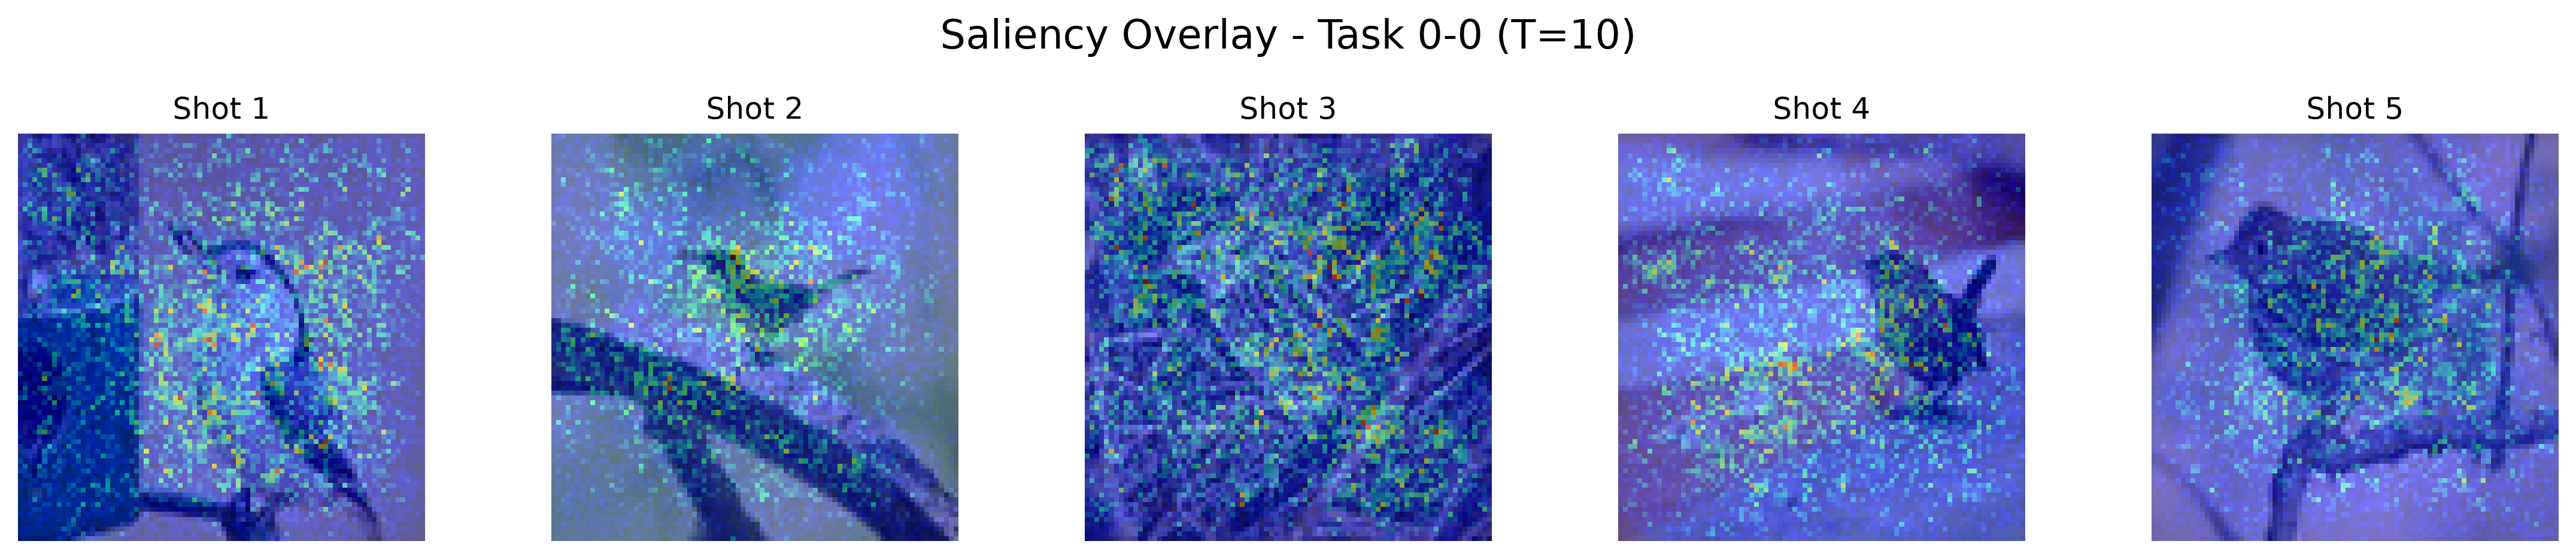
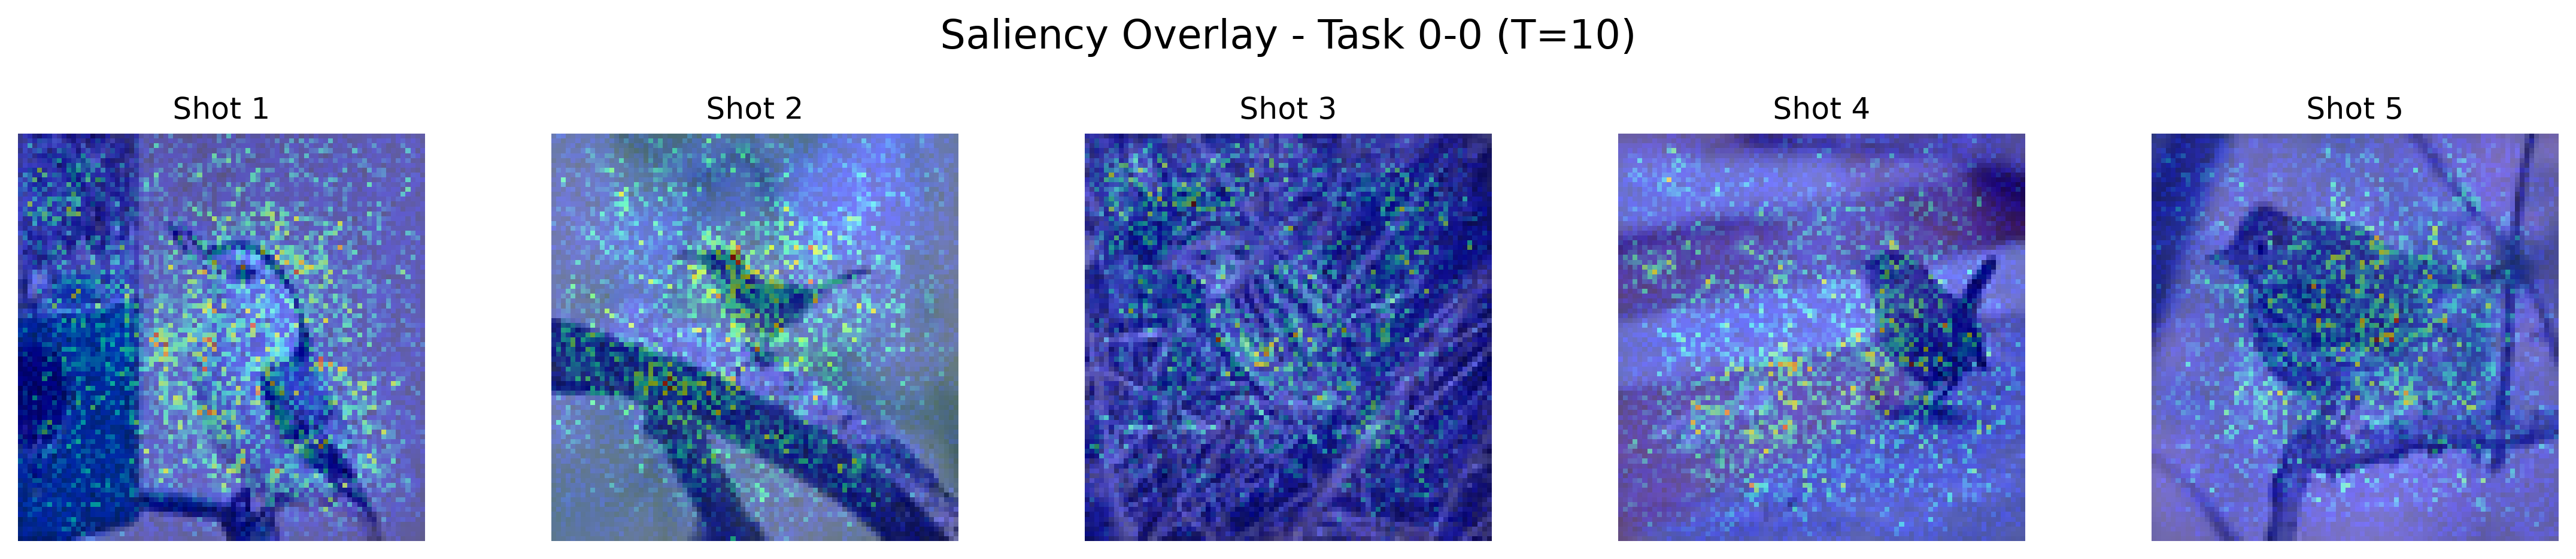
compute EQ saliency map

diff --git a/src/interpreters/base.py b/src/interpreters/base.py
@@ -4,23 +4,13 @@ algos/interpreter.py
 Post-hoc XAI cho MAML: Feature Saliency Map của support set S
 w.r.t. độ lợi thích nghi  ΔM = L_Q(θ₀) − L_Q(φᵢ*(S)).
 
-Lý thuyết đầy đủ: partial_LQ_partial_S.md §3-4.
-
-Ba kênh attribution (dùng chung một adjoint chain λ^(K)...λ^(1)):
 ──────────────────────────────────────────────────────────────────
-  ∂ΔM/∂wⱼ = (α/k) Σₘ ⟨gⱼ^(m-1), λ^(m)⟩                    ∈ ℝ
   ∂ΔM/∂xⱼ = (α/k) Σₘ [∇²_{φ,xⱼ} ℓⱼ(φ^(m-1))]ᵀ λ^(m)      ∈ ℝᴰ
-  LOO_j    = ΔM(S) − ΔM(S∖{j})                              ∈ ℝ  (discrete)
 
 Adjoint:
   λ^(K) = ∇_φ L_Q(φ^(K))
   λ^(m-1) = λ^(m) − α·H^(m-1)·λ^(m)     [H symmetric → no transpose needed]
   H^(m-1)·v via Pearlmutter HVP: O(P), không build ma trận P×P.
-
-Ghi chú BatchNorm (xác nhận bằng số):
-  ℓⱼ luôn được tính qua forward CHUNG toàn batch sup_x → sup_y,
-  rồi lấy thành phần thứ j. Forward riêng lẻ từng mẫu cho kết quả sai
-  nếu model dùng BatchNorm (track_running_stats=False là chuẩn cho MAML).
 """
 
 import torch
@@ -28,30 +18,26 @@ import torch.nn.functional as F
 import torch.autograd as autograd
 from typing import Dict, List, Optional
 
-from algos.utils import get_loss_n_preds, put_on_device
+from algos.utils import get_loss_n_preds, put_on_device, get_stratified_bootstrap_batches
 
 
 class MAMLPostHocExplainer:
     """
-    Post-hoc explainer cho một MAML đã train xong.
+    Post-hoc explainer for MAML.
 
     Parameters
     ----------
     maml : MAML
-        Đối tượng MAML đã load checkpoint (theta_0 đã sẵn sàng).
+        MAML manager obj (loaded from checkpoint - theta_0 was prepared).
     device : str, optional
-        Tự suy từ maml.device nếu không truyền.
+        Device to run on.
     """
 
     def __init__(self, maml, device: Optional[str] = None):
         self.maml    = maml
         self.device  = device or maml.device
-        self.alpha   = maml.base_lr   # inner-loop LR tại meta-test
+        self.alpha   = maml.base_lr   # inner-loop LR at meta-test time
         self.learner = maml.baselearner
-
-    # =========================================================================
-    # PRIVATE: primitive operations
-    # =========================================================================
 
     def _loss_j_joint(
         self,
@@ -237,6 +223,8 @@ class MAMLPostHocExplainer:
         que_x: torch.Tensor,
         que_y: torch.Tensor,
         T: int,
+        num_bootstraps: int = 10,
+        samples_per_class: int = 3,
     ) -> torch.Tensor:
         """
         ∂ΔM/∂xⱼ ∈ ℝ^(k×D) — bản đồ saliency đặc trưng (cùng shape sup_x).
@@ -247,7 +235,17 @@ class MAMLPostHocExplainer:
         Kết quả: pixel/đặc trưng nào trong mẫu j quan trọng với hướng thích nghi.
         """
         sup_x, sup_y, que_x, que_y = put_on_device(self.device, [sup_x, sup_y, que_x, que_y])
+        total_saliency = torch.zeros_like(sup_x)
+
         phis    = self._compute_trajectory(sup_x, sup_y, T)
-        lambdas = self._compute_lambdas(phis, que_x, que_y, sup_x, sup_y, T)
-        return self._saliency_x_core(sup_x, sup_y, T, phis, lambdas)
+
+        bootstrap_generator = get_stratified_bootstrap_batches(
+            que_x, que_y, num_bootstraps, samples_per_class
+        )
+        for b_que_x, b_que_y in bootstrap_generator:
+            lambdas_b = self._compute_lambdas(phis, b_que_x, b_que_y, sup_x, sup_y, T)
+            saliency_b = self._saliency_x_core(sup_x, sup_y, T, phis, lambdas_b)
+            total_saliency += saliency_b
+
+        return total_saliency / num_bootstraps
 

diff --git a/src/loaders/utils.py b/src/loaders/utils.py
@@ -21,3 +21,37 @@ def boT_to_stack(boT):
     que_x = torch.stack(que_x)
     que_y = torch.stack(que_y)
     return sup_x, sup_y, que_x, que_y
+
+def get_stratified_bootstrap_batches(
+    que_x,
+    que_y,
+    num_bootstraps: int,
+    samples_per_class: int,
+):
+    if que_y.dim() > 1 and que_y.shape[1] > 1:
+        que_y_labels = torch.argmax(que_y, dim=1)
+    else:
+        que_y_labels = que_y
+    classes = torch.unique(que_y_labels)
+
+    class_indices = {
+        c.item(): (que_y_labels == c).nonzero(as_tuple=True)[0] 
+        for c in classes
+    }
+
+    for _ in range(num_bootstraps):
+        bootstrap_idx_list = []
+
+        for c in classes:
+            idx_of_class = class_indices[c.item()]
+            num_available = len(idx_of_class)
+            
+            # Bốc thăm CÓ HOÀN LẠI
+            rand_picks = torch.randint(low=0, high=num_available, size=(samples_per_class,))
+            bootstrap_idx_list.append(idx_of_class[rand_picks])
+
+        # Gộp lại thành một batch hoàn chỉnh
+        final_bootstrap_indices = torch.cat(bootstrap_idx_list)
+        
+        yield que_x[final_bootstrap_indices], que_y[final_bootstrap_indices]
+